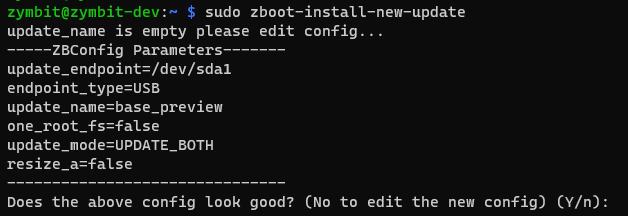
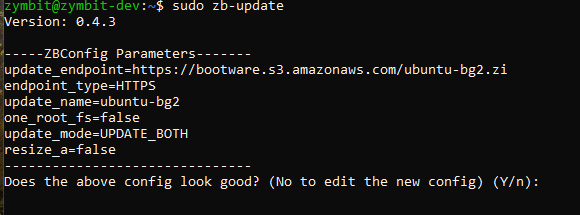
updated update png

Changed region(s): [[0.0, 0.0, 0.9621, 1.0]]

diff --git a/content/bootware-one-zero/getting-started/_index.md b/content/bootware-one-zero/getting-started/_index.md
@@ -163,11 +163,11 @@ sudo zb-update
 The script will show your configuration for review and confirmation, or give you the option to change the configuration. This method can be used as an alternative to using the Wizaard.
 
 {{< cardpane >}}
-{{% card header="zboot-install-new-update" %}}
+{{% card header="zb-update" %}}
 {{< figure
     src="zbwizard/updatemain.png"
-    alt="zboot update"
-    caption="Review and continue for zboot update"
+    alt="zb-update"
+    caption="Review and continue for Bootware update"
     >}}
 {{% /card %}}
 {{< /cardpane >}}
@@ -189,15 +189,7 @@ On the console, you will see:
 * It will take some time to unpack the image into the A/B root partitions depending on the size of the image.
 * Once it's done unpacking the image to the A and B partitions, it will boot into the updated ACTIVE partition. You can use `lsblk` to examine the partitions.
 
-## Reload all utilities
-
-The Bootware utilities are needed for Bootware to function. If not included in your newly loaded image, you will need to load the utilities into your partition(s). Our example zi file base_bullseye.zi has the Bootware Utilities pre-loaded.
-
-## Recovery
-
-Each successful boot will clear a max_boot_failure counter. A max_boot_failure count of 3 will trigger the recovery mechanism. The BACKUP partition will become the ACTIVE partition. If neither can boot, the endpoint with a good image will be loaded. A ROLLOVER notification message will be added to the MOTD.
-
-## Force Failover (Change Active/Backup partitions)
+## Quickcheck - Force Failover (Change Active/Backup partitions)
 
 A failover from Active to Backup is done with the `-r` option to `zb-update`
 
